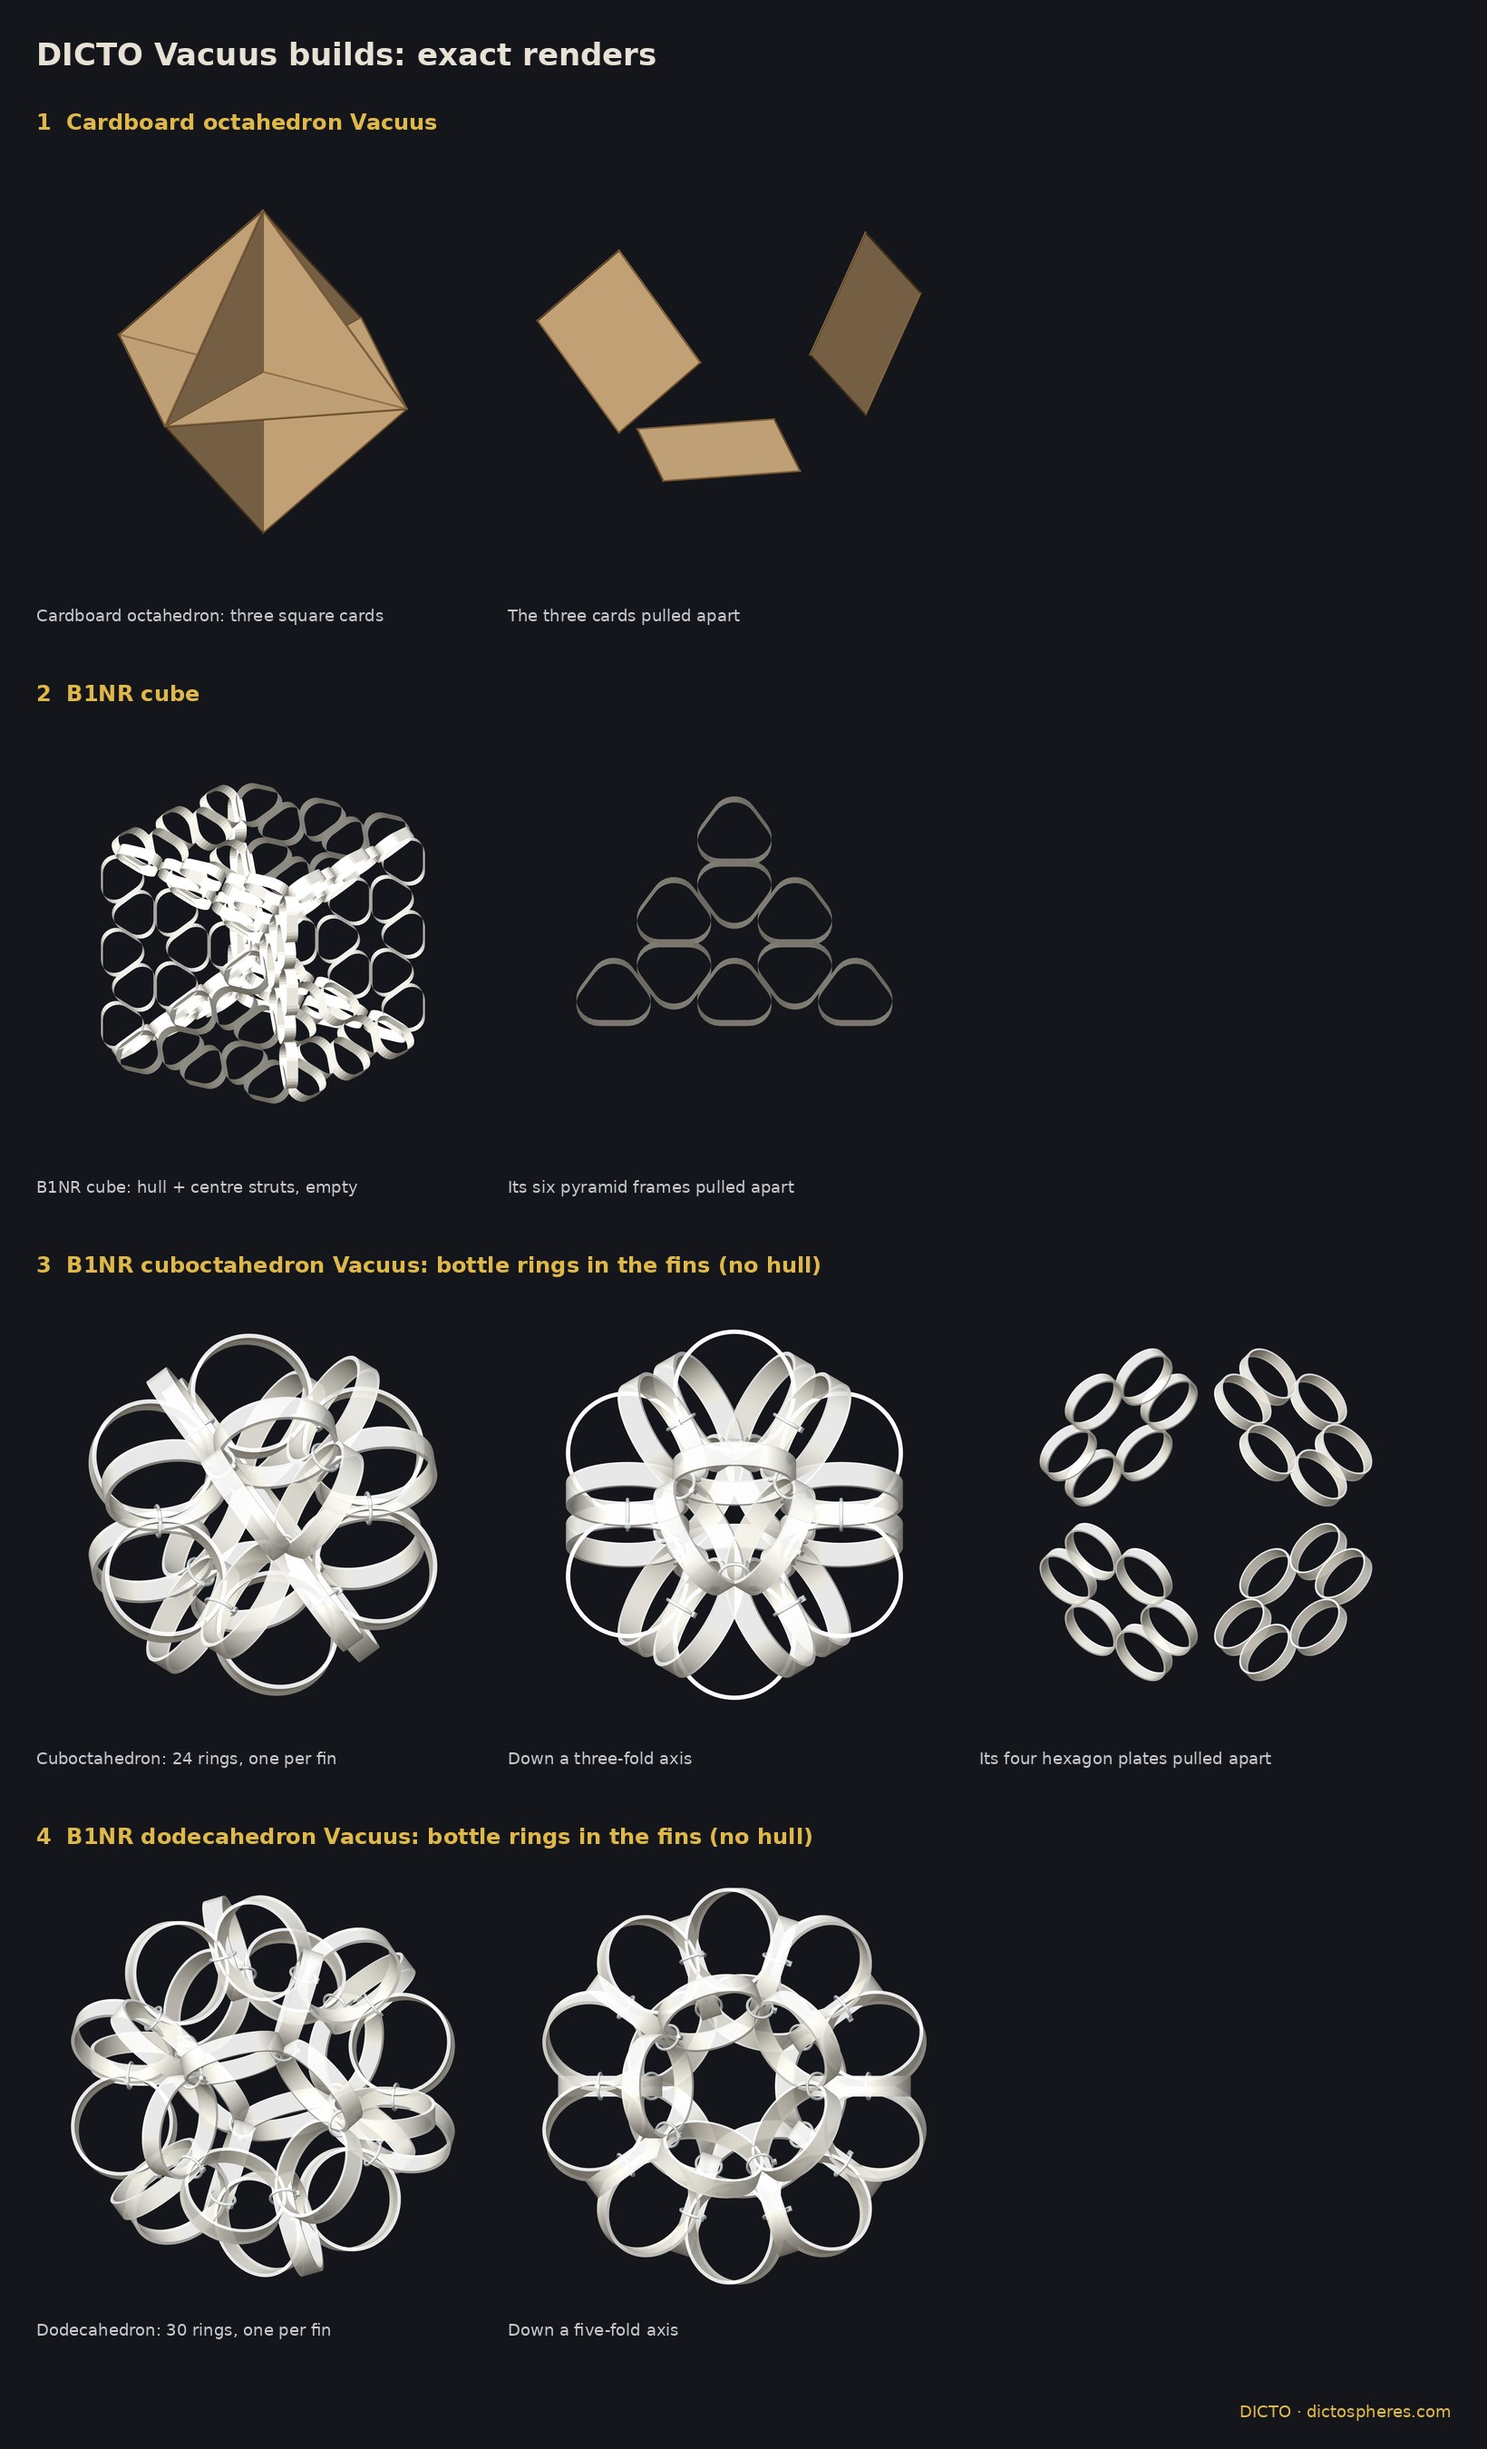
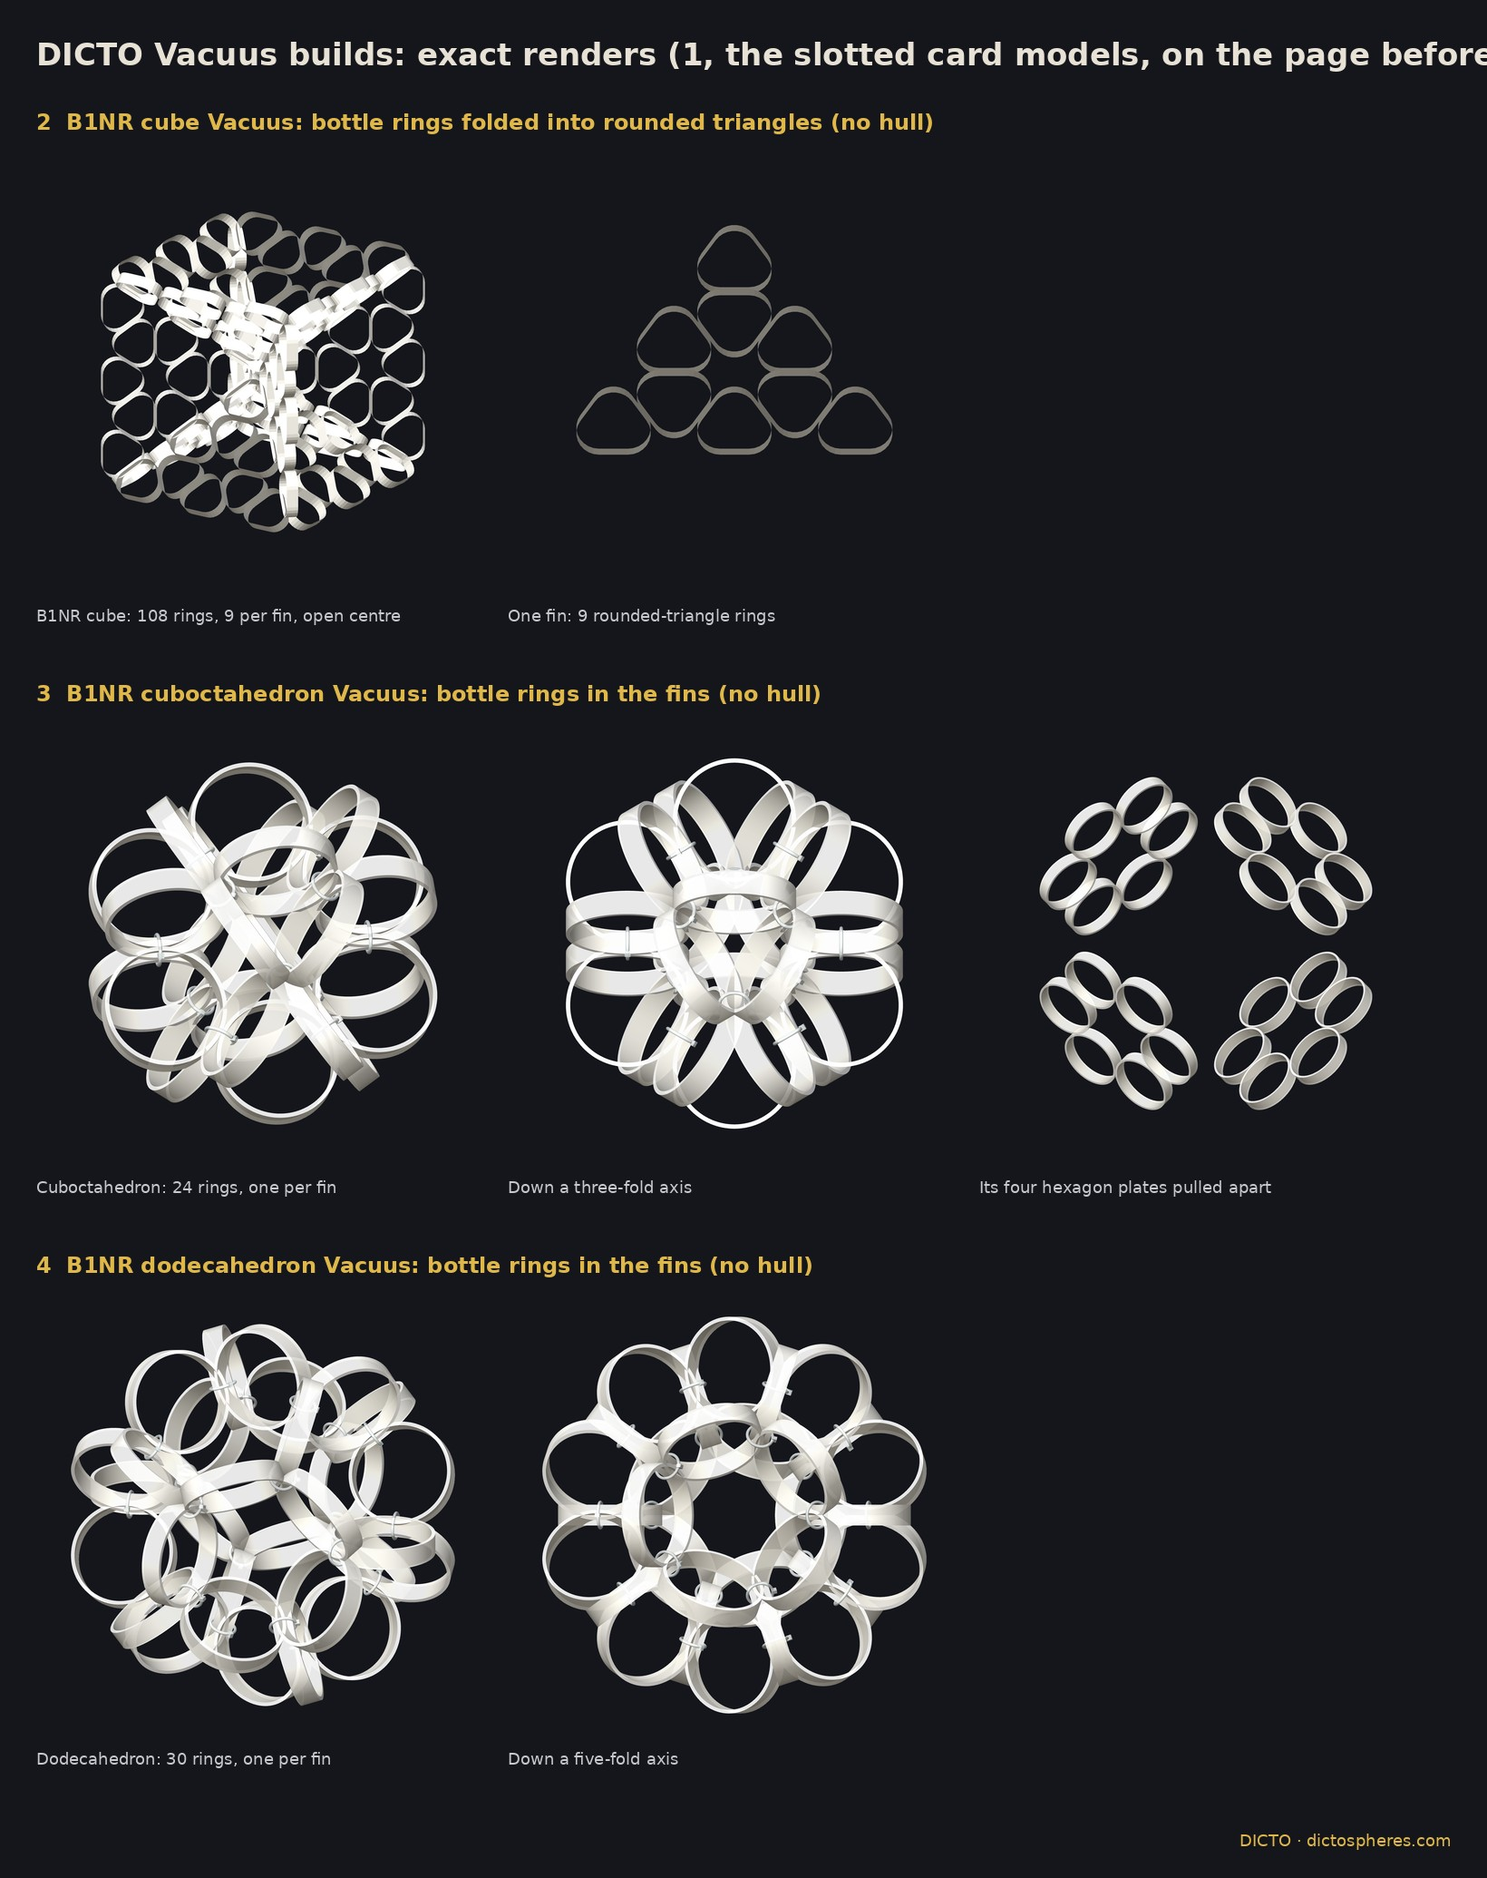
Build renders: one A4 page (slotted card models both forms, B1NR ring cube, cuboctahedron, dodecahedron); compose script synced

diff --git a/studies/2026-11-24-vacuus-build-renders/scripts/onepage.py b/studies/2026-11-24-vacuus-build-renders/scripts/onepage.py
@@ -1,0 +1,41 @@
+from PIL import Image, ImageDraw, ImageFont
+R='/home/dicto/k-research/studies/2026-11-24-vacuus-build-renders/renders/'
+P=Image.open('/home/dicto/k-research/studies/2026-11-25-slot-assemblies/renders/PREVIEW-slot-assemblies-1-dicto-construction.png').convert('RGB')
+sx=P.width/1320; sy=P.height/1580
+crop=lambda x0,y0,x1,y1: P.crop((int(x0*sx),int(y0*sy),int(x1*sx),int(y1*sy)))
+tiles=[(crop(60,185,640,770),'Octahedral form, assembled'),(crop(60,800,640,1390),'Octahedral form: pieces A, B, C1, C2'),
+       (crop(690,185,1290,770),'Cubic form (Resonus squares), assembled'),(crop(690,800,1290,1390),'Cubic form: pieces A, B, C1, C2'),
+       (Image.open(R+'cube-b1nr-rings.jpg'),'Cube: 108 rings, 9 per fin, open centre'),(Image.open(R+'cube-b1nr-rings-fin.jpg'),'One fin: 9 rounded-triangle rings'),
+       (Image.open(R+'cuboctahedron-ring-fins.jpg'),'Cuboctahedron: 24 rings, one per fin'),(Image.open(R+'cuboctahedron-ring-fins-axis3.jpg'),'Down a three-fold axis'),
+       (Image.open(R+'cuboctahedron-ring-fins-pulled.jpg'),'Its four hexagon plates pulled apart'),
+       (Image.open(R+'dodecahedron-ring-fins.jpg'),'Dodecahedron: 30 rings, one per fin'),(Image.open(R+'dodecahedron-ring-fins-axis5.jpg'),'Down a five-fold axis')]
+W,H=2480,3508; BG=(20,22,28); M=90
+S=Image.new('RGB',(W,H),BG); d=ImageDraw.Draw(S)
+FB='/usr/share/fonts/truetype/dejavu/DejaVuSans-Bold.ttf'; FN='/usr/share/fonts/truetype/dejavu/DejaVuSans.ttf'
+f1,f2,f3,f4=ImageFont.truetype(FB,58),ImageFont.truetype(FB,38),ImageFont.truetype(FN,30),ImageFont.truetype(FN,28)
+d.text((M,70),"DICTO's Vacuus builds: exact renders",font=f1,fill=(232,226,214))
+d.text((M,150),"Every corner exact; nothing fitted to a photo. Card models: 80 mm cards, 1.5 mm slots. Rings: PET-bottle security rings.",font=f4,fill=(190,186,176))
+sections=[('1  Slotted card models (four pieces; proved to assemble, both forms)',[0,1,2,3]),
+          ('2  B1NR cube Vacuus: rings folded into rounded triangles (no hull)',[4,5]),
+          ('3  B1NR cuboctahedron Vacuus: bottle rings in the fins (no hull)',[6,7,8]),
+          ('4  B1NR dodecahedron Vacuus: bottle rings in the fins (no hull)',[9,10])]
+# layout: section 1 in 2 rows of 2? use 4 columns for row 1, 3 columns elsewhere
+y=230
+for head,idx in sections:
+    d.text((M,y),head,font=f2,fill=(224,184,74)); y+=62
+    n=4 if len(idx)==4 else 3
+    T=min((W-2*M-(n-1)*30)//n, 680)
+    k=len(idx); x0=(W-(k*T+(k-1)*30))//2
+    for c,i in enumerate(idx):
+        im,cap=tiles[i]; im=im.convert('RGB')
+        from PIL import ImageChops
+        bb=ImageChops.difference(im,Image.new('RGB',im.size,im.getpixel((2,2)))).point(lambda v:255 if v>18 else 0).getbbox()
+        if bb: m=12; im=im.crop((max(bb[0]-m,0),max(bb[1]-m,0),min(bb[2]+m,im.width),min(bb[3]+m,im.height)))
+        r=min(T/im.width,T/im.height); im=im.resize((int(im.width*r),int(im.height*r)),Image.LANCZOS)
+        x=x0+c*(T+30); S.paste(im,(x+(T-im.width)//2,y+(T-im.height)//2))
+        d.text((x+T//2,y+T+12),cap,font=f3 if n==3 else f4,fill=(205,205,210),anchor='ma')
+    y+=T+80
+d.text((W-M,H-60),'DICTO · dictospheres.com',font=f3,fill=(224,184,74),anchor='ra')
+print('used height',y,'of',H)
+S.save('/home/dicto/Documents/papers-to-read/VACUUS-BUILD-RENDERS-2026-11-25.pdf','PDF',resolution=300)
+S.resize((620,877)).save('/tmp/claude-1000/-home-dicto-Downloads-pet-bottle-rhombiverse/d4219d89-8c65-4da0-9f1b-e8400fa445e8/scratchpad/onepage.jpg')
